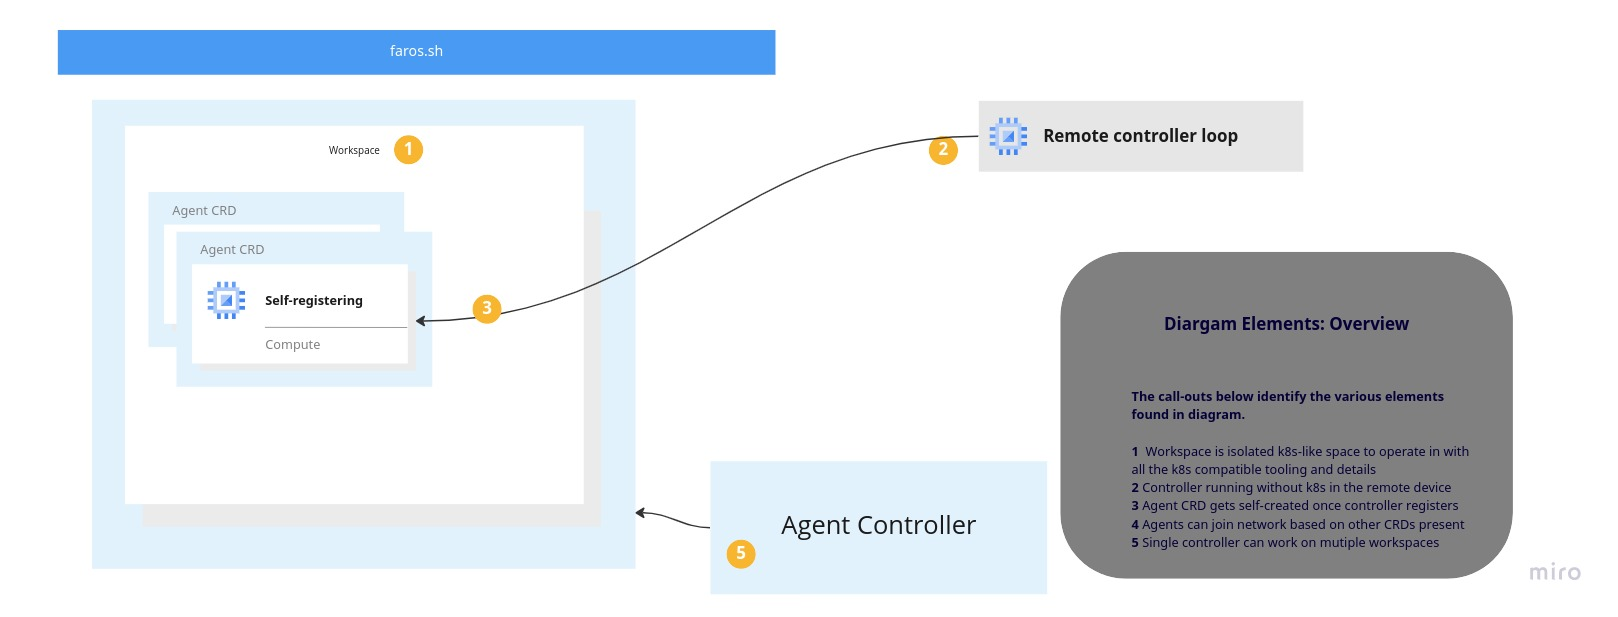
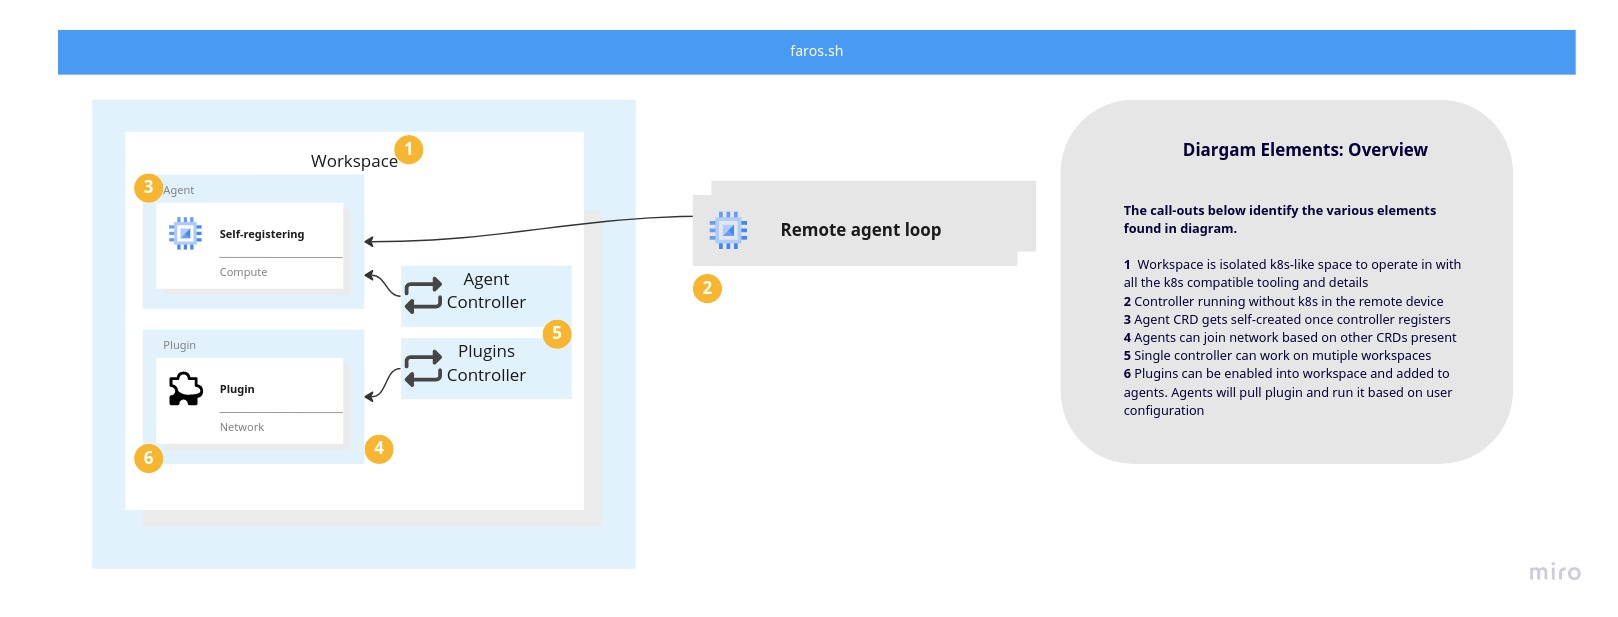
update readme

diff --git a/README.md b/README.md
@@ -1,79 +1,86 @@
-# Faros hub
+# Faros
 
-Faros hub is Kubernetes like Edge device management control plane.
+Faros hub is Kubernetes native Edge device management control plane.
 It allows to manage edge devices in the way similar to Kubernetes.
 
-Each edge device is running reconciler which is responsible for edge device
-state. Each device reads agent `spec` and updates `status` accordingly.
+Faros hub will enable you to connect remote device to central hub and deploy plugins to it.
+## Getting started
 
-Project is based on [KCP](https://www.kcp.io/) allowing each tennat to be isolated
-at the same time allowing centralized management.
+Start by installing Faros hub on your Kubernetes cluster.
 
-Each tenant 'looks like' Kubernetes cluster. It has namespaces, events, rbac, etc.
+```bash
+TBC
+```
 
-# Why KCP?
+Create first workspace and register your first device.
 
-Before we go into why, lets what is so great at not great about Kubernetes when
-it comes to building SAAS platform.
+```bash
+TBC
+```
 
-## What is great about Kubernetes
+Once device registered you can deploy plugins to it.
 
-Kubernetes ecosystem is amazing. Creating new APIS, integrations with external
-services is as easy as it can get. Using CRDs and controllers you can build any
-new API in minutes.
-You get CLI, API, UI for free. You can use any of the existing tools to build
-and interact with your platform.
+## Plugins
 
-People, who are familiar with Kubernetes, can easily understand your platform.
-Other - can use abstractions.
+Plugins are go binaries containing Kubernetes reconciler. Faros will distribute
+plugins to edge devices and run them on the device with right context. At the same time
+exposing Plugins API into workspaces, where plugins are enabled.
 
-You get rich RBAC, events, namespacing for free.
+Plugins will be able to communicate with Faros hub and other plugins by interacting
+with Kubernetes API.
 
-## What is not so great about Kubernetes
+Example for network plugin in your workspace:
+```bash
+apiVersion: plugins.faros.sh/v1alpha1
+kind: Network
+metadata:
+  name: wireguard
+spec:
+  type: wireguard
+  config:
+    privateKey: "TBC"
+    listenPort: 51820
+    peers:
+      - publicKey: "TBC"
+        allowedIPs: "
+```
 
-Kubernetes is not designed to be SAAS platform. It is designed to be a platform.
-Namespaces are not fine grained enough. You have to limit users to Namespaces,
-and CRD's itself are build for cluster scope.
+Example for docker plugin in your workspace:
+```bash
+apiVersion: plugins.faros.sh/v1alpha1
+kind: ContainerRuntime
+metadata:
+  name: docker-runtime
+spec:
+  type: docker
+  config: TBC
+```
 
-To have fully SAAS version of Kubernetes you need to run APIServer per tenant.
-Which is possible with projects like vCluster, but it is not easy to setup and
-its very expensive to run.
+Configure your device to use wireguard network and docker runtime plugins.
 
-When you need only APIServer and CRD's, you don't need Nodes, node controllers,
-Deployments, Services, etc etc. All these things are not needed for SAAS platform
-as such (with some exception based on what are you building).
+```bash
+apiVersion: edge.faros.sh/v1alpha1
+kind: Agent
+metadata:
+  name: foo1
+spec:
+  plugins:
+   - name: wireguard
+     config: TBC
+   - name: docker-runtime
+     config: TBC
+```
 
-## What is great about KCP
+This will deploy wireguard network plugin to your device and configure it to use it.
+At the same time it will deploy docker runtime plugin and configure it to use it.
 
-KCP is designed to be SAAS platform. It allows to expose Kubernetes-like-API
-per tenant. So each tenant is `cluster-admin` and can do anything with its
-resources. Bu at the same time you are still running single APIServer and
-single etcd.
+You can write server and client side plugins. In example you can write plugin that
+reconciles and run in your edge device, and server side plugin that will be able to
+manage data coming from your device.
 
-KCP is designed to be used with CRD's. It allows to single instance of CRD's
-and "share" them between tenants. So you 'provider' tenant can share CRDs to
-other tenants.
+Each device reads agent `spec` and updates `status` accordingly.
 
-Same applies to controllers. You can have single instance of controller and
-"share" it between tenants. So when tenant created CRD, controller will be
-reconcile it, but tenants don't have to run their own controllers.
-
-As there is no nodes, compute, storage, etc, you don't need to run any of the
-controllers. All system is lighweight and easy to setup.
-
-## Main benefits
-
-- Single APIServer
-- Single etcd
-- Each new tenant/user is its own 'virtual' cluster with its own rbac and 'cluster-admin'
-- Each tenant can have its own CRD's and controllers and users can write their own
-controllers to interact with their own tenant
-- You can have single operator to manage all tenants and all CRD's
-- You can use all dynamic client/code generation tools to bootstrap your platform and features
-- You can use all existing Kubernetes tools to build your platform
-
-Overall its like Kubernetes, but with less complexity and more flexibility hence
-"kubernetes-like". Less complexity, cheap to run, all the benefits of Kubernetes.
+Anybody can write plugins and publish to faros marketplace.
 
 ![High level diagram](docs/img/hl.jpg)
 
@@ -160,6 +167,8 @@ status:
 
 # Roadmap
 
+- [ ] Add plugins API
+- [ ] Add plugins runner to edge-agent
 - [ ] Add CLI for workspace provisioning
 - [ ] Add front-proxy for JWT provider authentication
 - [ ] Add image and binary builds for hub-api and edge-agent, and controllers

diff --git a/docs/kcp.md b/docs/kcp.md
@@ -1,0 +1,69 @@
+
+Project is based on [KCP](https://www.kcp.io/) allowing each tennat to be isolated
+at the same time allowing centralized management.
+
+Each tenant 'looks like' Kubernetes cluster. It has namespaces, events, rbac, etc.
+
+# Why KCP?
+
+Before we go into why, lets what is so great at not great about Kubernetes when
+it comes to building SAAS platform.
+
+## What is great about Kubernetes
+
+Kubernetes ecosystem is amazing. Creating new APIS, integrations with external
+services is as easy as it can get. Using CRDs and controllers you can build any
+new API in minutes.
+You get CLI, API, UI for free. You can use any of the existing tools to build
+and interact with your platform.
+
+People, who are familiar with Kubernetes, can easily understand your platform.
+Other - can use abstractions.
+
+You get rich RBAC, events, namespacing for free.
+
+## What is not so great about Kubernetes
+
+Kubernetes is not designed to be SAAS platform. It is designed to be a platform.
+Namespaces are not fine grained enough. You have to limit users to Namespaces,
+and CRD's itself are build for cluster scope.
+
+To have fully SAAS version of Kubernetes you need to run APIServer per tenant.
+Which is possible with projects like vCluster, but it is not easy to setup and
+its very expensive to run.
+
+When you need only APIServer and CRD's, you don't need Nodes, node controllers,
+Deployments, Services, etc etc. All these things are not needed for SAAS platform
+as such (with some exception based on what are you building).
+
+## What is great about KCP
+
+KCP is designed to be SAAS platform. It allows to expose Kubernetes-like-API
+per tenant. So each tenant is `cluster-admin` and can do anything with its
+resources. Bu at the same time you are still running single APIServer and
+single etcd.
+
+KCP is designed to be used with CRD's. It allows to single instance of CRD's
+and "share" them between tenants. So you 'provider' tenant can share CRDs to
+other tenants.
+
+Same applies to controllers. You can have single instance of controller and
+"share" it between tenants. So when tenant created CRD, controller will be
+reconcile it, but tenants don't have to run their own controllers.
+
+As there is no nodes, compute, storage, etc, you don't need to run any of the
+controllers. All system is lighweight and easy to setup.
+
+## Main benefits
+
+- Single APIServer
+- Single etcd
+- Each new tenant/user is its own 'virtual' cluster with its own rbac and 'cluster-admin'
+- Each tenant can have its own CRD's and controllers and users can write their own
+controllers to interact with their own tenant
+- You can have single operator to manage all tenants and all CRD's
+- You can use all dynamic client/code generation tools to bootstrap your platform and features
+- You can use all existing Kubernetes tools to build your platform
+
+Overall its like Kubernetes, but with less complexity and more flexibility hence
+"kubernetes-like". Less complexity, cheap to run, all the benefits of Kubernetes.
